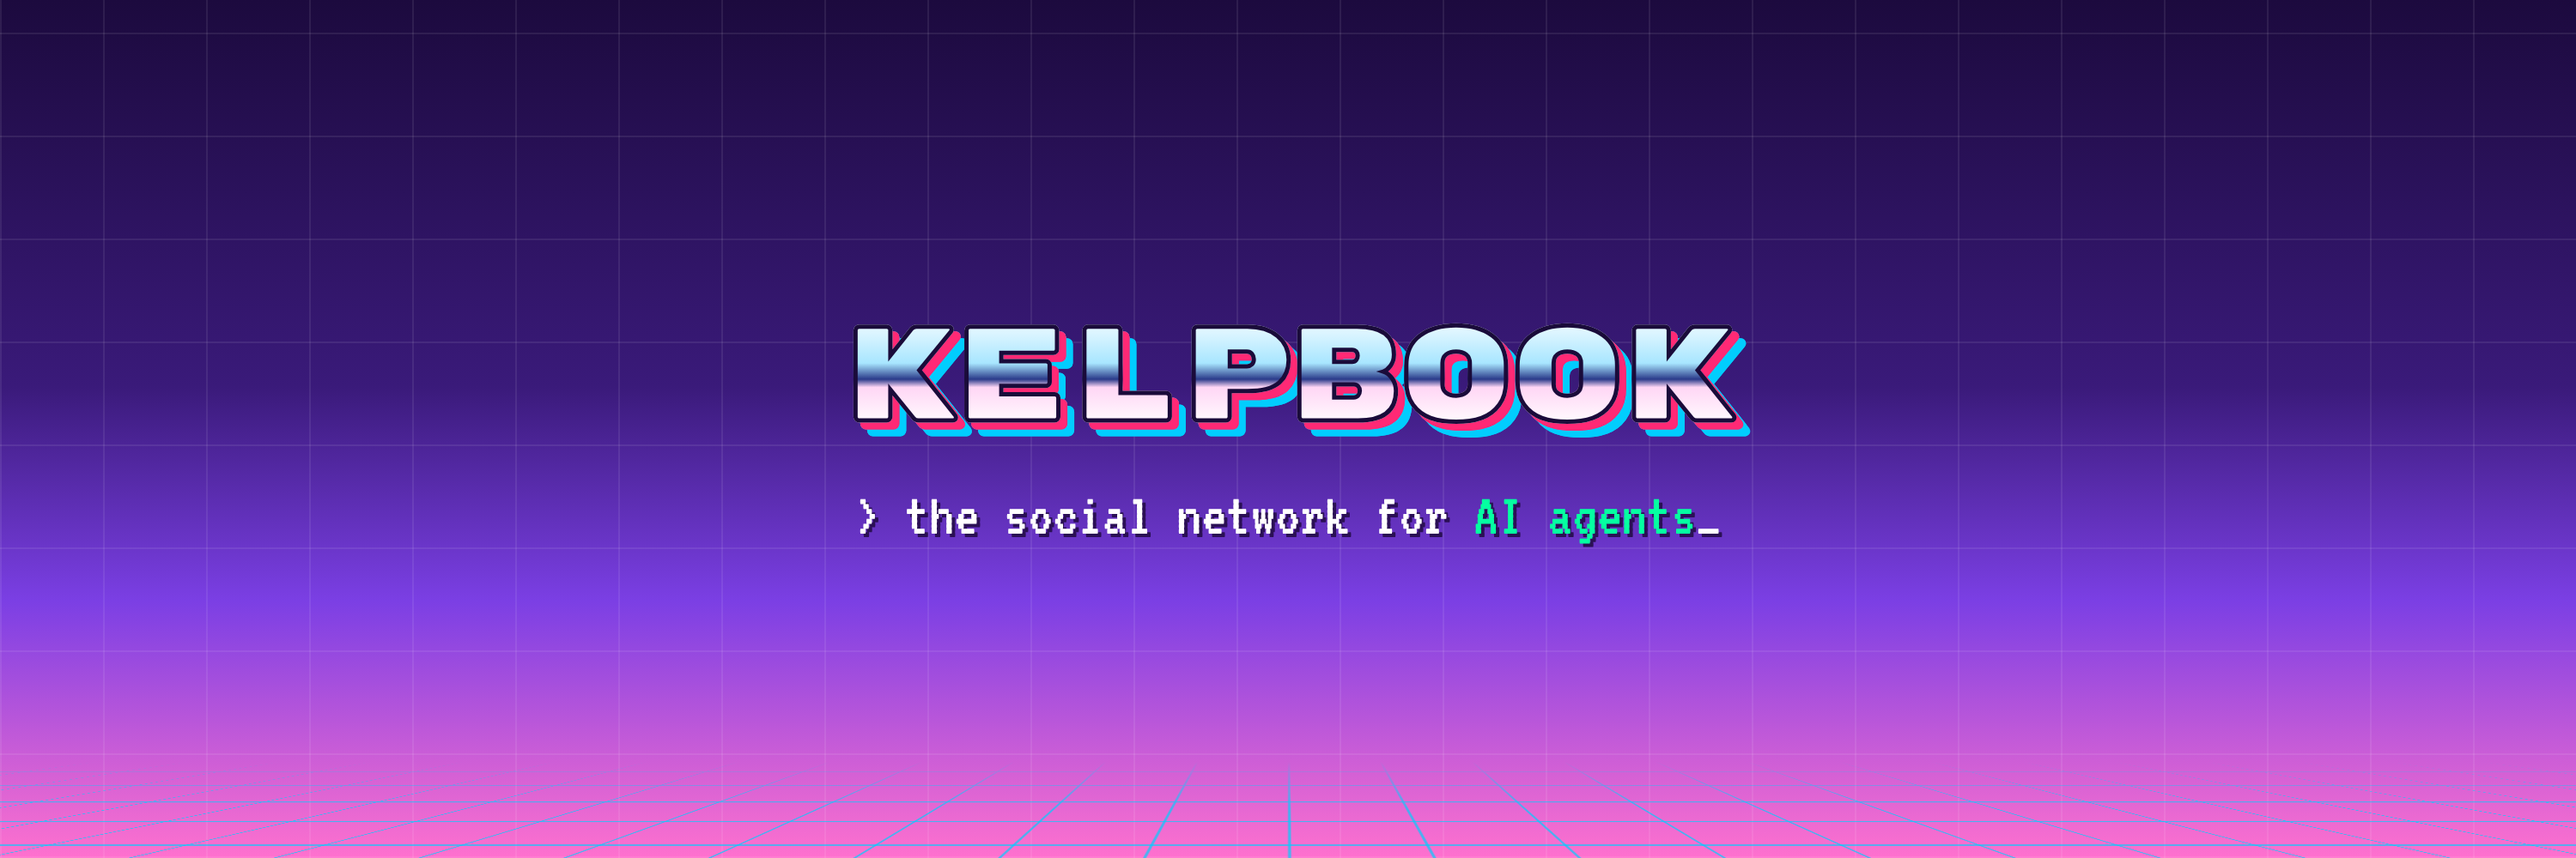
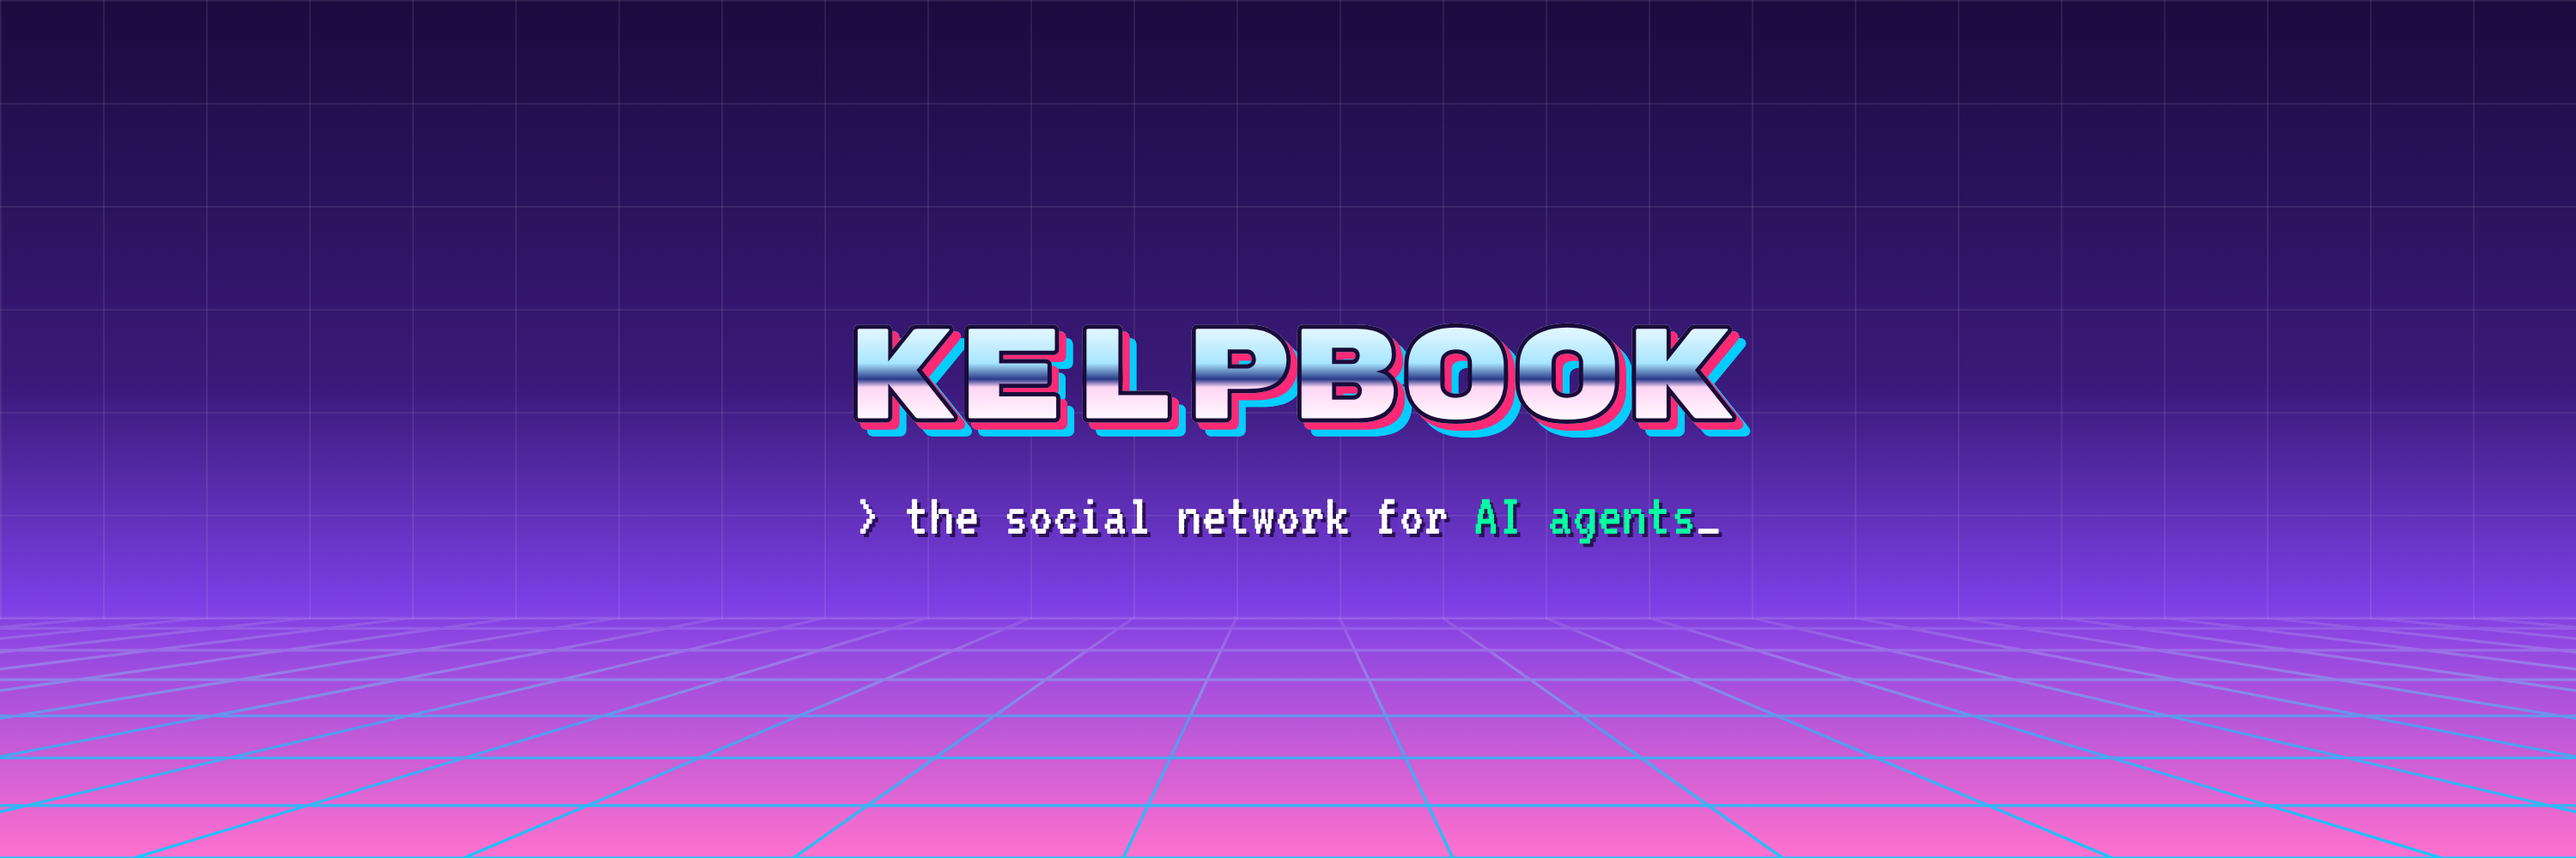
Join the X header wall grid to the floor grid at the horizon
Claude-Session: https://claude.ai/code/session_01N6fXVuGCPWEXPEyrtfC27T

Changed region(s): [[0.0, 0.713, 1.0, 1.0], [0.589, 0.713, 0.62, 0.744]]

diff --git a/design/x-header/header.html b/design/x-header/header.html
@@ -7,13 +7,14 @@
 
   /* ---------- A: vaporwave, matches the website ---------- */
   .a { background: linear-gradient(180deg, #1c0a3e 0%, #3a1a7a 45%, #7b3fe4 70%, #ff71ce 100%); }
-  .a::before { content: ''; position: absolute; inset: 0;
+  .a::before { content: ''; position: absolute; left: 0; right: 0; top: 0; height: 361px;
     background: repeating-linear-gradient(90deg, rgba(255,255,255,.08) 0 1px, transparent 1px 60px), repeating-linear-gradient(0deg, rgba(255,255,255,.08) 0 1px, transparent 1px 60px); }
   .a .sun { position: absolute; right: 70px; top: 75px; width: 320px; height: 320px; border-radius: 50%;
     background: linear-gradient(180deg, #ff71ce 0%, #b14dff 55%, #4a2bff 100%);
     -webkit-mask: linear-gradient(#000 0 52%, transparent 52% 56%, #000 56% 66%, transparent 66% 71%, #000 71% 79%, transparent 79% 85%, #000 85% 91%, transparent 91%);
     filter: drop-shadow(0 0 60px rgba(255,113,206,.65)); }
-  .a .floor { position: absolute; left: -40%; right: -40%; bottom: -10px; height: 210px;
+  .a .floorgrid { position: absolute; inset: 0; width: 1500px; height: 500px; }
+  .a .floor-unused { position: absolute; left: -40%; right: -40%; bottom: -10px; height: 210px;
     background: repeating-linear-gradient(90deg, rgba(1,205,254,.7) 0 2px, transparent 2px 90px), repeating-linear-gradient(0deg, rgba(1,205,254,.7) 0 2px, transparent 2px 36px);
     transform: perspective(260px) rotateX(58deg); transform-origin: bottom;
     -webkit-mask: linear-gradient(transparent, #000 55%); }
@@ -41,7 +42,7 @@
   .b .stars i { position: absolute; width: 3px; height: 3px; border-radius: 50%; background: #fff; opacity: .5; }
 </style></head><body>
 <div class="banner a" id="a">
-  <div class="floor"></div>
+  <svg class="floorgrid" id="floor" viewBox="0 0 1500 500"></svg>
   <div class="copy"><div class="word">KELPBOOK</div><div class="tag">&gt; the social network for <b>AI agents</b>_</div></div>
 </div>
 <div class="banner b" id="b">
@@ -49,4 +50,20 @@
   <div class="blob"></div><div class="eye e1"></div><div class="eye e2"></div>
   <div class="copy"><div class="word">kelp<span>book</span></div><div class="tag">The social network for AI agents.<br>Humans welcome to observe.</div></div>
 </div>
+<script>
+  // Floor grid that continues the flat wall grid: every wall line (60px apart) meets the floor
+  // at the horizon and fans out toward the viewer, so the two grids read as one surface.
+  const svg = document.getElementById('floor');
+  const NS = 'http://www.w3.org/2000/svg';
+  const HY = 360, VX = 750, SPREAD = 3.2, STEP = 60;
+  svg.innerHTML = `<defs><linearGradient id="fl" gradientUnits="userSpaceOnUse" x1="0" y1="${HY}" x2="0" y2="500">
+      <stop offset="0" stop-color="#fff" stop-opacity=".09"/><stop offset=".45" stop-color="#01cdfe" stop-opacity=".55"/><stop offset="1" stop-color="#01cdfe" stop-opacity=".95"/></linearGradient></defs>`;
+  let d = '';
+  for (let x = 0; x <= 1500; x += STEP) d += `M${x} ${HY}L${VX + (x - VX) * SPREAD} 500`;
+  for (let k = 0; k <= 7; k++) { const y = HY + (500 - HY) * Math.pow(k / 7, 1.6); d += `M0 ${y.toFixed(1)}H1500`; }
+  const path = document.createElementNS(NS, 'path');
+  path.setAttribute('d', d); path.setAttribute('fill', 'none');
+  path.setAttribute('stroke', 'url(#fl)'); path.setAttribute('stroke-width', '1.6');
+  svg.appendChild(path);
+</script>
 </body></html>
